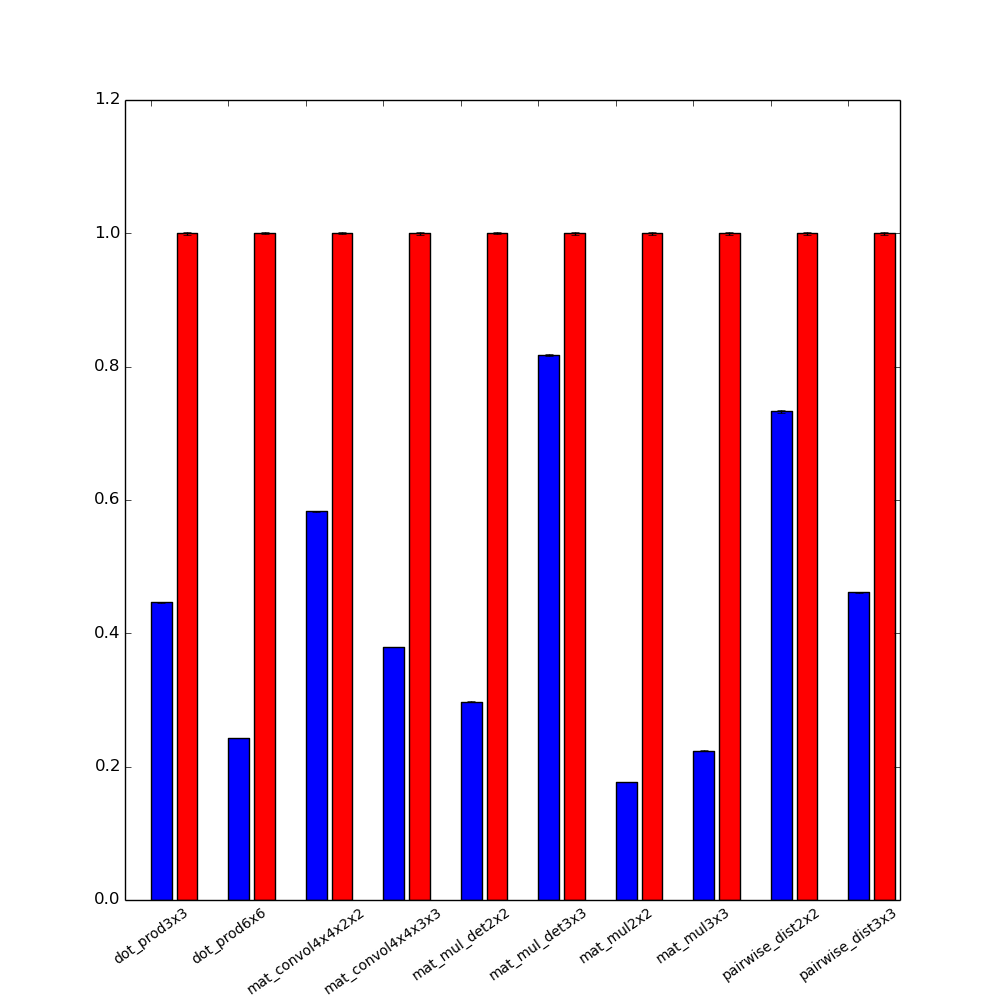
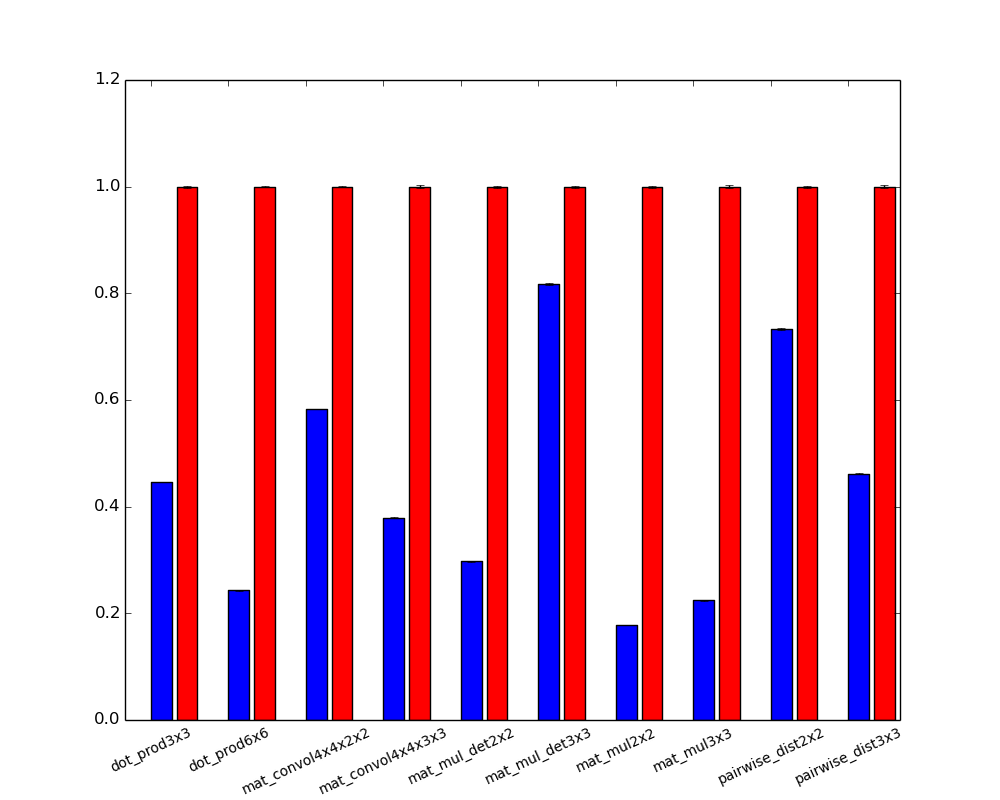
decreased height on graphs

diff --git a/vector_synth/bfv_backend/generateGraphs.py b/vector_synth/bfv_backend/generateGraphs.py
@@ -190,6 +190,7 @@ int2 = st.t.interval(alpha=0.95, df=len(scal_encrun1)-1, loc=np.mean(scal_encrun
 dp3x3_vec_run_avg = average(vec_run1)
 int3 = st.t.interval(alpha=0.95, df=len(vec_run1)-1, loc=np.mean(vec_run1), scale=st.sem(vec_run1))
 dp3x3_scal_run_avg = average(scal_run1)
+print(float(dp3x3_scal_run_avg)/ dp3x3_vec_run_avg)
 int4 = st.t.interval(alpha=0.95, df=len(scal_run1)-1, loc=np.mean(scal_run1), scale=st.sem(scal_run1))
 dp6x6_vec_encrun_avg = average(vec_encrun2)
 int5 = st.t.interval(alpha=0.95, df=len(vec_encrun2)-1, loc=np.mean(vec_encrun2), scale=st.sem(vec_encrun2))
@@ -198,6 +199,7 @@ int6 = st.t.interval(alpha=0.95, df=len(scal_encrun2)-1, loc=np.mean(scal_encrun
 dp6x6_vec_run_avg = average(vec_run2)
 int7 = st.t.interval(alpha=0.95, df=len(vec_run2)-1, loc=np.mean(vec_run2), scale=st.sem(vec_run2))
 dp6x6_scal_run_avg = average(scal_run2)
+print(float(dp6x6_scal_run_avg)/ dp6x6_vec_run_avg)
 int8 = st.t.interval(alpha=0.95, df=len(scal_run2)-1, loc=np.mean(scal_run2), scale=st.sem(scal_run2))
 mc4x4x2x2_vec_encrun_avg = average(vec_encrun3)
 int9 = st.t.interval(alpha=0.95, df=len(vec_encrun3)-1, loc=np.mean(vec_encrun3), scale=st.sem(vec_encrun3))
@@ -206,6 +208,7 @@ int10 = st.t.interval(alpha=0.95, df=len(scal_encrun3)-1, loc=np.mean(scal_encru
 mc4x4x2x2_vec_run_avg = average(vec_run3)
 int11 = st.t.interval(alpha=0.95, df=len(vec_run3)-1, loc=np.mean(vec_run3), scale=st.sem(vec_run3))
 mc4x4x2x2_scal_run_avg = average(scal_run3)
+print(float(mc4x4x2x2_scal_run_avg)/ mc4x4x2x2_vec_run_avg)
 int12 = st.t.interval(alpha=0.95, df=len(scal_run3)-1, loc=np.mean(scal_run3), scale=st.sem(scal_run3))
 mc4x4x3x3_vec_encrun_avg = average(vec_encrun4)
 int13 = st.t.interval(alpha=0.95, df=len(vec_encrun4)-1, loc=np.mean(vec_encrun4), scale=st.sem(vec_encrun4))
@@ -214,6 +217,7 @@ int14 = st.t.interval(alpha=0.95, df=len(scal_encrun4)-1, loc=np.mean(scal_encru
 mc4x4x3x3_vec_run_avg = average(vec_run4)
 int15 = st.t.interval(alpha=0.95, df=len(vec_run4)-1, loc=np.mean(vec_run4), scale=st.sem(vec_run4))
 mc4x4x3x3_scal_run_avg = average(scal_run4)
+print(float(mc4x4x3x3_scal_run_avg)/ mc4x4x3x3_vec_run_avg)
 int16 = st.t.interval(alpha=0.95, df=len(scal_run4)-1, loc=np.mean(scal_run4), scale=st.sem(scal_run4))
 mmd2x2_vec_encrun_avg = average(vec_encrun5)
 int17 = st.t.interval(alpha=0.95, df=len(vec_encrun5)-1, loc=np.mean(vec_encrun5), scale=st.sem(vec_encrun5))
@@ -222,6 +226,7 @@ int18 = st.t.interval(alpha=0.95, df=len(scal_encrun5)-1, loc=np.mean(scal_encru
 mmd2x2_vec_run_avg = average(vec_run5)
 int19 = st.t.interval(alpha=0.95, df=len(vec_run5)-1, loc=np.mean(vec_run5), scale=st.sem(vec_run5))
 mmd2x2_scal_run_avg = average(scal_run5)
+print(float(mmd2x2_scal_run_avg)/ mmd2x2_vec_run_avg)
 int20 = st.t.interval(alpha=0.95, df=len(scal_run5)-1, loc=np.mean(scal_run5), scale=st.sem(scal_run5))
 mmd3x3_vec_encrun_avg = average(vec_encrun6)
 int21 = st.t.interval(alpha=0.95, df=len(vec_encrun6)-1, loc=np.mean(vec_encrun6), scale=st.sem(vec_encrun6))
@@ -230,6 +235,7 @@ int22 = st.t.interval(alpha=0.95, df=len(scal_encrun6)-1, loc=np.mean(scal_encru
 mmd3x3_vec_run_avg = average(vec_run6)
 int23 = st.t.interval(alpha=0.95, df=len(vec_run6)-1, loc=np.mean(vec_run6), scale=st.sem(vec_run6))
 mmd3x3_scal_run_avg = average(scal_run6)
+print(float(mmd3x3_scal_run_avg)/ mmd3x3_vec_run_avg)
 int24 = st.t.interval(alpha=0.95, df=len(scal_run6)-1, loc=np.mean(scal_run6), scale=st.sem(scal_run6))
 mm2x2_vec_encrun_avg = average(vec_encrun7)
 int25 = st.t.interval(alpha=0.95, df=len(vec_encrun7)-1, loc=np.mean(vec_encrun7), scale=st.sem(vec_encrun7))
@@ -238,6 +244,7 @@ int26 = st.t.interval(alpha=0.95, df=len(scal_encrun7)-1, loc=np.mean(scal_encru
 mm2x2_vec_run_avg = average(vec_run7)
 int27 = st.t.interval(alpha=0.95, df=len(vec_run7)-1, loc=np.mean(vec_run7), scale=st.sem(vec_run7))
 mm2x2_scal_run_avg = average(scal_run7)
+print(float(mm2x2_scal_run_avg)/ mm2x2_vec_run_avg)
 int28 = st.t.interval(alpha=0.95, df=len(scal_run7)-1, loc=np.mean(scal_run7), scale=st.sem(scal_run7))
 mm3x3_vec_encrun_avg = average(vec_encrun8)
 int29 = st.t.interval(alpha=0.95, df=len(vec_encrun8)-1, loc=np.mean(vec_encrun8), scale=st.sem(vec_encrun8))
@@ -246,6 +253,7 @@ int30 = st.t.interval(alpha=0.95, df=len(scal_encrun8)-1, loc=np.mean(scal_encru
 mm3x3_vec_run_avg = average(vec_run8)
 int31 = st.t.interval(alpha=0.95, df=len(vec_run8)-1, loc=np.mean(vec_run8), scale=st.sem(vec_run8))
 mm3x3_scal_run_avg = average(scal_run8)
+print(float(mm3x3_scal_run_avg)/ mm3x3_vec_run_avg)
 int32 = st.t.interval(alpha=0.95, df=len(scal_run8)-1, loc=np.mean(scal_run8), scale=st.sem(scal_run8))
 pd2x2_vec_encrun_avg = average(vec_encrun9)
 int33 = st.t.interval(alpha=0.95, df=len(vec_encrun9)-1, loc=np.mean(vec_encrun9), scale=st.sem(vec_encrun9))
@@ -254,6 +262,7 @@ int34 = st.t.interval(alpha=0.95, df=len(scal_encrun9)-1, loc=np.mean(scal_encru
 pd2x2_vec_run_avg = average(vec_run9)
 int35 = st.t.interval(alpha=0.95, df=len(vec_run9)-1, loc=np.mean(vec_run9), scale=st.sem(vec_run9))
 pd2x2_scal_run_avg = average(scal_run9)
+print(float(pd2x2_scal_run_avg)/ pd2x2_vec_run_avg)
 int36 = st.t.interval(alpha=0.95, df=len(scal_run9)-1, loc=np.mean(scal_run9), scale=st.sem(scal_run9))
 pd3x3_vec_encrun_avg = average(vec_encrun10)
 int37 = st.t.interval(alpha=0.95, df=len(vec_encrun10)-1, loc=np.mean(vec_encrun10), scale=st.sem(vec_encrun10))
@@ -262,9 +271,10 @@ int38 = st.t.interval(alpha=0.95, df=len(scal_encrun10)-1, loc=np.mean(scal_encr
 pd3x3_vec_run_avg = average(vec_run10)
 int39 = st.t.interval(alpha=0.95, df=len(vec_run10)-1, loc=np.mean(vec_run10), scale=st.sem(vec_run10))
 pd3x3_scal_run_avg = average(scal_run10)
+print(float(pd3x3_scal_run_avg)/ pd3x3_vec_run_avg)
 int40 = st.t.interval(alpha=0.95, df=len(scal_run10)-1, loc=np.mean(scal_run10), scale=st.sem(scal_run10))
 
-figure(figsize=(10, 10), dpi=80)
+figure(figsize=(10, 8), dpi=80)
 plt.bar(1, height = float(dp3x3_vec_encrun_avg)/dp3x3_scal_encrun_avg, color = 'blue', yerr = (int1[1] - int1[0]) / (2 * dp3x3_scal_encrun_avg), ecolor = 'black', label = 'vector')
 plt.bar(2, height = 1, color = 'red', yerr = (int2[1] - int2[0]) / (2 * dp3x3_scal_encrun_avg), ecolor = 'black', label = 'scalar')
 
@@ -295,11 +305,11 @@ plt.bar(26, height = 1, color = 'red', yerr = (int34[1] - int34[0]) / (2 * pd2x2
 plt.bar(28, height = float(pd3x3_vec_encrun_avg)/pd3x3_scal_encrun_avg, color = 'blue', yerr = (int37[1] - int37[0]) / (2 * pd3x3_scal_encrun_avg), ecolor = 'black')
 plt.bar(29, height = 1, color = 'red', yerr = (int38[1] - int38[0]) / (2 * pd3x3_scal_encrun_avg), ecolor = 'black')
 ax = plt.gca()
-plt.xticks([1,4,7,10,13,16,19,22,25,28],["dot_prod3x3", "dot_prod6x6", "mat_convol4x4x2x2", "mat_convol4x4x3x3", "mat_mul_det2x2", "mat_mul_det3x3", "mat_mul2x2", "mat_mul3x3", "pairwise_dist2x2", "pairwise_dist3x3"], rotation = 35, fontsize = 10)
+plt.xticks([1,4,7,10,13,16,19,22,25,28],["dot_prod3x3", "dot_prod6x6", "mat_convol4x4x2x2", "mat_convol4x4x3x3", "mat_mul_det2x2", "mat_mul_det3x3", "mat_mul2x2", "mat_mul3x3", "pairwise_dist2x2", "pairwise_dist3x3"], rotation = 25, fontsize = 10)
 #leg = ax.legend(loc = 'upper left')
 plt.show()
 
-figure(figsize=(10, 10), dpi=80)
+figure(figsize=(10, 8), dpi=80)
 plt.bar(1, height = float(dp3x3_vec_run_avg)/dp3x3_scal_run_avg, color = 'blue', yerr = (int3[1] - int3[0]) / (2 * dp3x3_scal_run_avg), ecolor = 'black', label = 'vector')
 plt.bar(2, height = 1, color = 'red', yerr = (int4[1] - int4[0]) / (2 * dp3x3_scal_run_avg), ecolor = 'black', label = 'scalar')
 
@@ -330,6 +340,6 @@ plt.bar(26, height = 1, color = 'red', yerr = (int36[1] - int36[0]) / (2 * pd2x2
 plt.bar(28, height = float(pd3x3_vec_run_avg)/pd3x3_scal_run_avg, color = 'blue', yerr = (int39[1] - int39[0]) / (2 * pd3x3_scal_run_avg), ecolor = 'black')
 plt.bar(29, height = 1, color = 'red', yerr = (int40[1] - int40[0]) / (2 * pd3x3_scal_run_avg), ecolor = 'black')
 ax = plt.gca()
-plt.xticks([1,4,7,10,13,16,19,22,25,28],["dot_prod3x3", "dot_prod6x6", "mat_convol4x4x2x2", "mat_convol4x4x3x3", "mat_mul_det2x2", "mat_mul_det3x3", "mat_mul2x2", "mat_mul3x3", "pairwise_dist2x2", "pairwise_dist3x3"], rotation = 35, fontsize = 10)
+plt.xticks([1,4,7,10,13,16,19,22,25,28],["dot_prod3x3", "dot_prod6x6", "mat_convol4x4x2x2", "mat_convol4x4x3x3", "mat_mul_det2x2", "mat_mul_det3x3", "mat_mul2x2", "mat_mul3x3", "pairwise_dist2x2", "pairwise_dist3x3"], rotation = 25, fontsize = 10)
 #leg = ax.legend(loc = 'upper left')
 plt.show()

diff --git a/vector_synth/bfv_backend/generateTreeGraphs.py b/vector_synth/bfv_backend/generateTreeGraphs.py
@@ -166,7 +166,7 @@ int23 = st.t.interval(alpha=0.95, df=len(vec_run6)-1, loc=np.mean(vec_run6), sca
 tree100_100_6_scal_run_avg = average(scal_run6)
 int24 = st.t.interval(alpha=0.95, df=len(scal_run6)-1, loc=np.mean(scal_run6), scale=st.sem(scal_run6))
 
-figure(figsize=(10, 10), dpi=80)
+figure(figsize=(10, 8), dpi=80)
 norm_tree50_50_3_vec_enc = float(tree50_50_3_vec_enc_avg)/(tree50_50_3_scal_enc_avg + tree50_50_3_scal_run_avg)
 norm_tree50_50_3_vec_run = float(tree50_50_3_vec_run_avg)/(tree50_50_3_scal_enc_avg + tree50_50_3_scal_run_avg)
 plt.bar(1, norm_tree50_50_3_vec_run, color = 'green', yerr = (int3[1] - int3[0]) / (2 * (tree50_50_3_scal_enc_avg + tree50_50_3_scal_run_avg)), ecolor = 'black', label = 'scalar')
@@ -227,5 +227,5 @@ norm_tree100_100_6_scal_run = float(tree100_100_6_scal_run_avg)/(tree100_100_6_s
 plt.bar(17, norm_tree100_100_6_scal_run, color = 'yellow', yerr = (int24[1] - int24[0]) / (2 * (tree100_100_6_scal_enc_avg + tree100_100_6_scal_run_avg)), ecolor = 'black', label = 'scalar')
 plt.bar(17, norm_tree100_100_6_scal_enc, color = 'red', yerr = (int22[1] - int22[0]) / (2 * (tree100_100_6_scal_enc_avg + tree100_100_6_scal_run_avg)), ecolor = 'black', bottom = norm_tree100_100_6_scal_run)
 
-plt.xticks([1,4,7,10,13,16],["sparse_3", "sparse_6", "dense_nonhomogeneous_3", "dense_nonhomogeneous_6", "dense_homogeneous_3", "dense_homogeneous_6"], rotation = 25, fontsize = 10)
+plt.xticks([1,4,7,10,13,16],["sparse_3", "sparse_6", "dense_nonhomogeneous_3", "dense_nonhomogeneous_6", "dense_homogeneous_3", "dense_homogeneous_6"], rotation = 15, fontsize = 10)
 plt.show()
